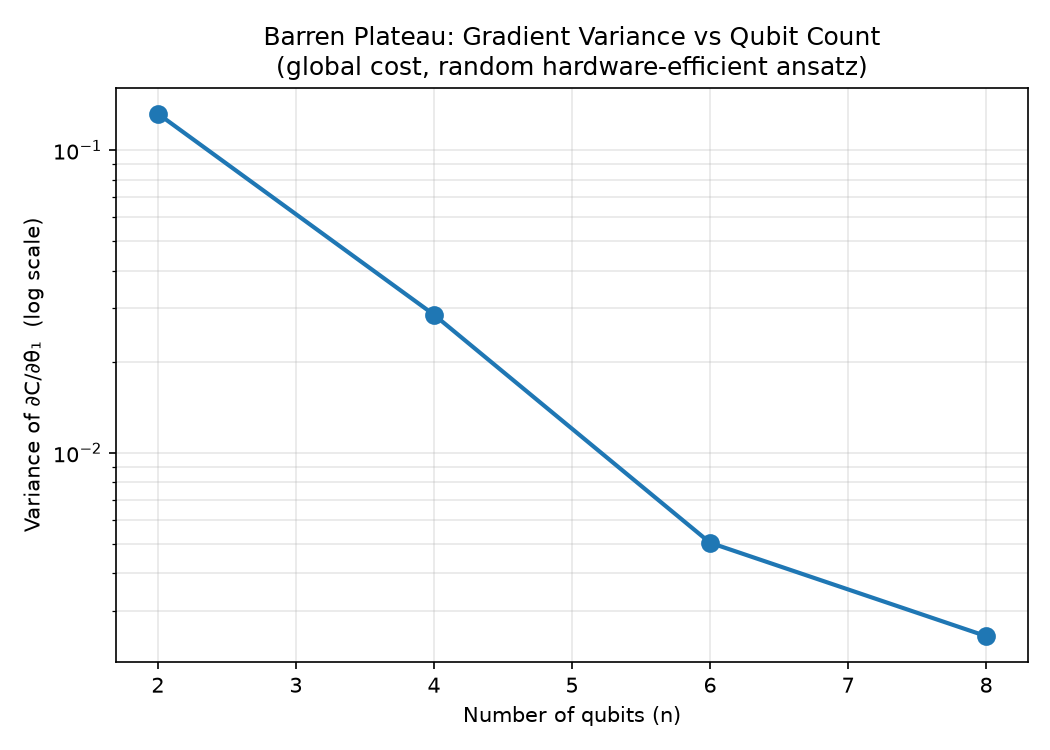
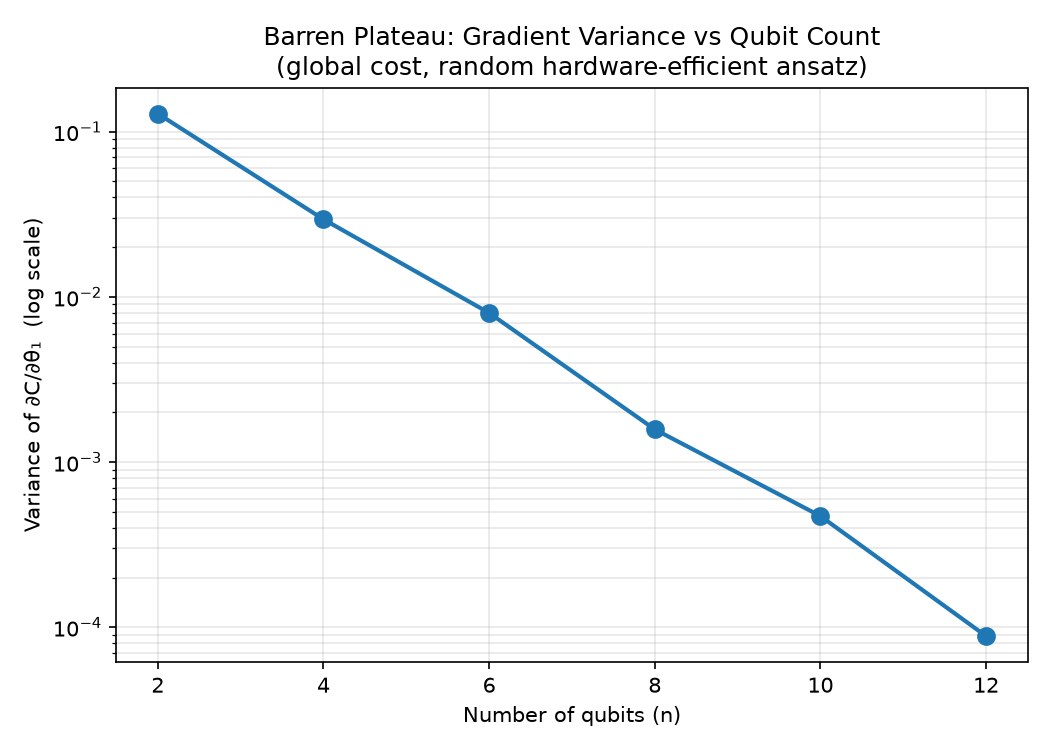
Update to scaled-up 6-point result

diff --git a/src/reproduce_barren_plateau.py b/src/reproduce_barren_plateau.py
@@ -84,7 +84,7 @@ def run_experiment(qubit_range, depth=6, n_samples=200):
     return np.array(variances)
 
 
-def plot_results(qubit_range, variances, save_path="barren_plateau_week1.png"):
+def plot_results(qubit_range, variances, save_path="../results/gradient_variance_vs_qubits.png"):
     plt.figure(figsize=(7, 5))
     plt.semilogy(qubit_range, variances, "o-", linewidth=2, markersize=8)
     plt.xlabel("Number of qubits (n)")
@@ -102,9 +102,9 @@ def plot_results(qubit_range, variances, save_path="barren_plateau_week1.png"):
 
 
 if __name__ == "__main__":
-    qubit_range = [2, 4, 6, 8]
+    qubit_range = [2, 4, 6, 8, 10, 12]
     depth = 4
-    n_samples = 50
+    n_samples = 200
 
     variances = run_experiment(qubit_range, depth=depth, n_samples=n_samples)
     plot_results(qubit_range, variances)